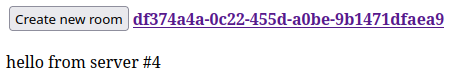
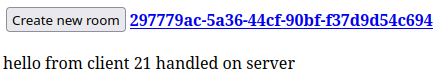
Added mutext to players Added incoming messages handler sample in game room Refactored

Changed region(s): [[0.0, 0.0723, 0.9888, 0.3855], [0.0, 0.6506, 0.6689, 0.8434]]

diff --git a/assets/index.html b/assets/index.html
@@ -110,9 +110,11 @@
             setRoomId(roomId)
             dial(roomId)
                 .then((c) => {
+                    var counter = 1
                     setInterval(() => {
-                        c.send("hello from client")
-                    }, 100)
+                        c.send("hello from client " + counter)
+                        counter++
+                    }, 1000)
                 })
                 .catch(e => {
                     console.log(e)

diff --git a/internal/game/room/game_room.go b/internal/game/room/game_room.go
@@ -58,6 +58,10 @@ func ExtractGameRoomFromRequest(r *http.Request, existingRooms map[uuid.UUID]*Ga
 	return gr, nil
 }
 
+func (gr *GameRoom) ActivePlayers() int {
+	return len(gr.players)
+}
+
 func (gr *GameRoom) Broadcast(msg []byte) {
 	gr.roomMu.Lock()
 	defer gr.roomMu.Unlock()
@@ -66,9 +70,9 @@ func (gr *GameRoom) Broadcast(msg []byte) {
 		return
 	}
 
-	for _, subscriber := range gr.players {
+	for _, p := range gr.players {
 		select {
-		case subscriber.OutMessages <- msg:
+		case p.OutMessages <- msg:
 		}
 	}
 }
@@ -86,9 +90,7 @@ func (gr *GameRoom) Send(recipient uuid.UUID, msg []byte) {
 		return
 	}
 
-	select {
-	case p.OutMessages <- msg:
-	}
+	p.Send(msg)
 }
 
 func (gr *GameRoom) AddPlayer(p *player.Player) bool {
@@ -123,8 +125,6 @@ func (gr *GameRoom) OnJoin(p *player.Player) {
 
 	go gr.ListenIn(p)
 	go gr.ListenOut(p)
-
-	gr.AddPlayer(p)
 }
 
 func (gr *GameRoom) OnDisconnect(p *player.Player) {
@@ -170,14 +170,18 @@ func (gr *GameRoom) ListenIn(p *player.Player) {
 			if !ok {
 				return
 			}
-			log.Printf("received incoming message: %s", msg)
+
+			p.Mu.Lock()
+			// changing player state safely
+			p.DoAction(string(msg))
+			p.Mu.Unlock()
 		case <-gr.ctx.Done():
 			return
 		}
 	}
 }
 
-func (gr *GameRoom) Close(closeCallback func(gr *GameRoom)) {
+func (gr *GameRoom) CloseRoom(closeCallback func(gr *GameRoom)) {
 	if gr.closed {
 		return
 	}
@@ -205,7 +209,7 @@ func (gr *GameRoom) Run(ctx context.Context, closeCallback func(gr *GameRoom)) {
 	stop := func() {
 		timer.Stop()
 		ticker.Stop()
-		gr.Close(closeCallback)
+		gr.CloseRoom(closeCallback)
 	}
 
 	for {
@@ -218,12 +222,20 @@ func (gr *GameRoom) Run(ctx context.Context, closeCallback func(gr *GameRoom)) {
 			stop()
 			log.Printf("Game room %s closed because context cancel", gr.Id)
 			return
-			//Main game loop should be with default keyword only. Ticker here as imitation of game loop tick
+			//Some async periodic game room task to be broadcasted (like game map change or something else)
 		case <-ticker.C:
 			counter++
-			gr.Broadcast([]byte("hello from server #" + strconv.Itoa(counter)))
+
+			gr.Broadcast([]byte("from server #" + strconv.Itoa(counter)))
 
 			log.Printf("Game room %s contains %d players", gr.Id, len(gr.players))
+		default:
+			//Main game loop execution
+			for _, p := range gr.players {
+				p.Mu.RLock()
+				p.Send([]byte(p.LastAction + " handled on server"))
+				p.Mu.RUnlock()
+			}
 		}
 	}
 }

diff --git a/internal/server/game_server.go b/internal/server/game_server.go
@@ -14,6 +14,7 @@ import (
 	"github.com/tfkfan/gogame/internal/config"
 	"github.com/tfkfan/gogame/internal/game/player"
 	"github.com/tfkfan/gogame/internal/game/room"
+	"github.com/tfkfan/gogame/internal/network"
 )
 
 type GameServer struct {
@@ -86,7 +87,7 @@ func (srv *GameServer) handleWsConnection(w http.ResponseWriter, r *http.Request
 	}
 	if wsErr != nil {
 		log.Printf("error on websocket join: %v", wsErr)
-		srv.closeWebSocket(ws, websocket.StatusBadGateway, wsErr.Error())
+		network.CloseWebSocket(ws, websocket.StatusBadGateway, wsErr.Error())
 		return
 	}
 }
@@ -100,7 +101,15 @@ func (srv *GameServer) tryConnect(r *http.Request, ws *websocket.Conn) error {
 	if e != nil {
 		return e
 	}
-	return srv.onJoin(p, gr)
+
+	defer gr.OnDisconnect(p)
+
+	if gr.AddPlayer(p) {
+		gr.OnJoin(p)
+		return gr.ReadWebSocket(p)
+	}
+
+	return errors.New("game room is full")
 }
 
 func (srv *GameServer) handleRoom(w http.ResponseWriter, r *http.Request) {
@@ -136,22 +145,4 @@ func (srv *GameServer) DeleteGameRoom(id uuid.UUID) {
 	srv.gameServerMu.Lock()
 	defer srv.gameServerMu.Unlock()
 	delete(srv.rooms, id)
-}
-
-func (srv *GameServer) onJoin(p *player.Player, gr *room.GameRoom) error {
-	defer gr.OnDisconnect(p)
-
-	if gr.AddPlayer(p) {
-		gr.OnJoin(p)
-		return gr.ReadWebSocket(p)
-	}
-
-	return errors.New("game room is full")
-}
-
-func (srv *GameServer) closeWebSocket(ws *websocket.Conn, statusCode websocket.StatusCode, statusMessage string) {
-	e := ws.Close(statusCode, statusMessage)
-	if e != nil {
-		return
-	}
 }

diff --git a/internal/game/player/player.go b/internal/game/player/player.go
@@ -2,17 +2,23 @@ package player
 
 import (
 	"context"
+	"log"
 	"net/http"
+	"sync"
 
 	"github.com/coder/websocket"
 	"github.com/google/uuid"
+	"github.com/tfkfan/gogame/internal/network"
 )
 
 type Player struct {
 	Id          uuid.UUID
 	ws          *websocket.Conn
+	Mu          sync.RWMutex
 	InMessages  chan []byte
 	OutMessages chan []byte
+
+	LastAction string
 }
 
 func ExtractPlayerFromRequest(r *http.Request, ws *websocket.Conn) (*Player, error) {
@@ -46,4 +52,19 @@ func (p *Player) Write(ctx context.Context, msg []byte) {
 	if err != nil {
 		return
 	}
+}
+
+func (p *Player) Send(msg []byte) {
+	select {
+	case p.OutMessages <- msg:
+	}
+}
+
+func (p *Player) CloseWebSocket(statusCode websocket.StatusCode, errorMessage string) {
+	network.CloseWebSocket(p.ws, statusCode, errorMessage)
+}
+
+func (p *Player) DoAction(action string) {
+	log.Printf("action '%s' performed for player %s\n", action, p.Id)
+	p.LastAction = action
 }

diff --git a/internal/network/websocket.go b/internal/network/websocket.go
@@ -1,0 +1,10 @@
+package network
+
+import "github.com/coder/websocket"
+
+func CloseWebSocket(ws *websocket.Conn, statusCode websocket.StatusCode, statusMessage string) {
+	e := ws.Close(statusCode, statusMessage)
+	if e != nil {
+		return
+	}
+}
